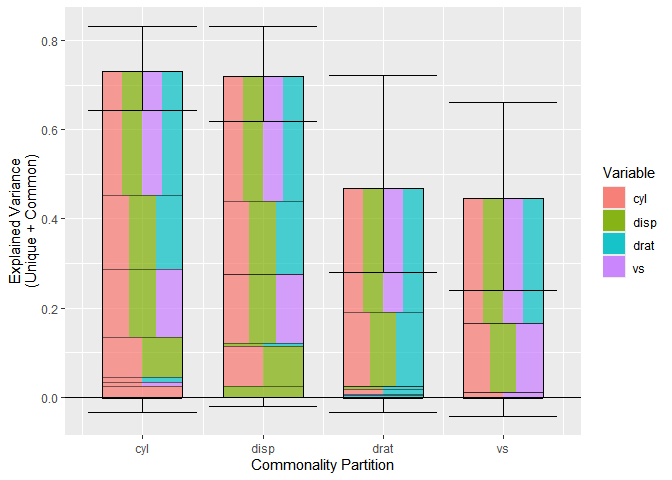
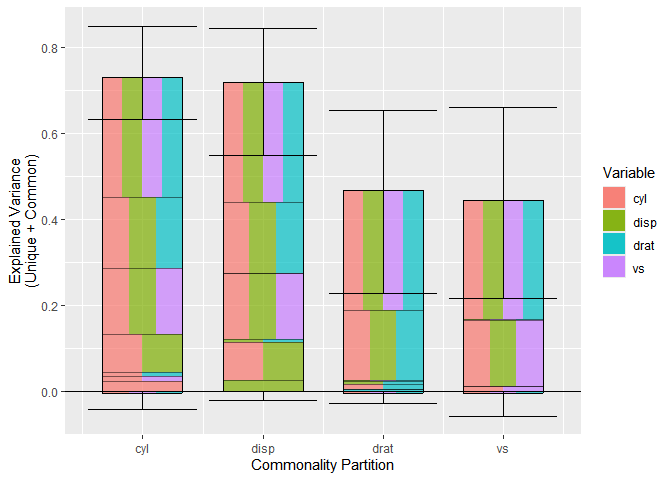
feat(R): add option to stack unique v common effects

diff --git a/README.md b/README.md
@@ -1,7 +1,7 @@
 
 <!-- README.md is generated from README.Rmd. Please edit that file -->
 
-# ggcommonality
+# ggcommonality <img src="ggcommonality_sticker.png" align="right"/>
 
 <!-- badges: start -->
 <!-- badges: end -->
@@ -134,20 +134,20 @@ df_commonality <- df_ggcommonality(formula = mpg ~ cyl + disp + vs + drat,
 lapply(df_commonality,
        head)
 #> [[1]]
-#>        names   vals total category plot_order n_cues cue value x_min x_max
-#> 5        cyl 0.0235  3.07      cyl          1      1   1   cyl   2.5   3.5
-#> 1   cyl,  vs 0.0106  1.39      cyl          2      2   1   cyl   2.5   3.0
-#> 2   cyl,  vs 0.0106  1.39      cyl          2      2   2    vs   3.0   3.5
-#> 3 cyl,  drat 0.0110  1.43      cyl          3      2   1   cyl   2.5   3.0
-#> 4 cyl,  drat 0.0110  1.43      cyl          3      2   2  drat   3.0   3.5
-#> 6 cyl,  disp 0.0884 11.55      cyl          4      2   1   cyl   2.5   3.0
-#>   category_numeric  y_min  y_max
-#> 5                1 0.0000 0.0235
-#> 1                1 0.0235 0.0341
-#> 2                1 0.0235 0.0341
-#> 3                1 0.0341 0.0451
-#> 4                1 0.0341 0.0451
-#> 6                1 0.0451 0.1335
+#>        names   vals total category plot_order n_cues   type cue value x_min
+#> 5        cyl 0.0235  3.07      cyl          1      1 unique   1   cyl   2.5
+#> 1   cyl,  vs 0.0106  1.39      cyl          2      2 common   1   cyl   2.5
+#> 2   cyl,  vs 0.0106  1.39      cyl          2      2 common   2    vs   3.0
+#> 3 cyl,  drat 0.0110  1.43      cyl          3      2 common   1   cyl   2.5
+#> 4 cyl,  drat 0.0110  1.43      cyl          3      2 common   2  drat   3.0
+#> 6 cyl,  disp 0.0884 11.55      cyl          4      2 common   1   cyl   2.5
+#>   x_max category_numeric  y_min  y_max
+#> 5   3.5                1 0.0000 0.0235
+#> 1   3.0                1 0.0235 0.0341
+#> 2   3.5                1 0.0235 0.0341
+#> 3   3.0                1 0.0341 0.0451
+#> 4   3.5                1 0.0341 0.0451
+#> 6   3.0                1 0.0451 0.1335
 #> 
 #> [[2]]
 #> # A tibble: 4 × 6
@@ -159,20 +159,20 @@ lapply(df_commonality,
 #> 4 vs           0 0.445   7     8     7.5
 #> 
 #> [[3]]
-#>            names    vals total category plot_order 4 n_cues cue value    x_min
-#> 4            cyl  0.0000   0.0      cyl          1        1   1   cyl 2.500000
-#> 1 cyl, vs,  drat -0.0038  -0.5      cyl          2        3   1   cyl 2.500000
-#> 2 cyl, vs,  drat -0.0038  -0.5      cyl          2        3   2    vs 2.833333
-#> 3 cyl, vs,  drat -0.0038  -0.5      cyl          2        3   3  drat 3.166667
-#> 7           disp  0.0000   0.0     disp          1        1   1  disp 4.000000
-#> 5      disp,  vs  0.0000   0.0     disp          2        2   1  disp 4.000000
-#>      x_max category_numeric y_min   y_max
-#> 4 3.500000                1     0  0.0000
-#> 1 2.833333                1     0 -0.0038
-#> 2 3.166667                1     0 -0.0038
-#> 3 3.500000                1     0 -0.0038
-#> 7 5.000000                2     0  0.0000
-#> 5 4.500000                2     0  0.0000
+#>            names    vals total category plot_order 4 n_cues   type cue value
+#> 4            cyl  0.0000   0.0      cyl          1        1 unique   1   cyl
+#> 1 cyl, vs,  drat -0.0038  -0.5      cyl          2        3 common   1   cyl
+#> 2 cyl, vs,  drat -0.0038  -0.5      cyl          2        3 common   2    vs
+#> 3 cyl, vs,  drat -0.0038  -0.5      cyl          2        3 common   3  drat
+#> 7           disp  0.0000   0.0     disp          1        1 unique   1  disp
+#> 5      disp,  vs  0.0000   0.0     disp          2        2 common   1  disp
+#>      x_min    x_max category_numeric y_min   y_max
+#> 4 2.500000 3.500000                1     0  0.0000
+#> 1 2.500000 2.833333                1     0 -0.0038
+#> 2 2.833333 3.166667                1     0 -0.0038
+#> 3 3.166667 3.500000                1     0 -0.0038
+#> 7 4.000000 5.000000                2     0  0.0000
+#> 5 4.000000 4.500000                2     0  0.0000
 #> 
 #> [[4]]
 #> # A tibble: 4 × 6
@@ -200,6 +200,26 @@ p +
 ```
 
 <img src="man/figures/README-unnamed-chunk-5-1.png" width="100%" />
+
+# Stack by unique vs. common effects
+
+``` r
+p2 <- ggcommonality(formula = mpg ~ cyl + disp + vs + drat,
+                   data = mtcars,
+                   by = ".")
+
+p2 +
+  ci_ggcommonality(formula = mpg ~ cyl + disp + vs + drat,
+                   data = mtcars,
+                   sample_column = "gear",
+                   n_replications = 100,
+                   by = ".",
+                   colour = "grey5",
+                   width = 0.5,
+                   alpha = 0.5) 
+```
+
+<img src="man/figures/README-unnamed-chunk-6-1.png" width="100%" />
 
 # References
 
